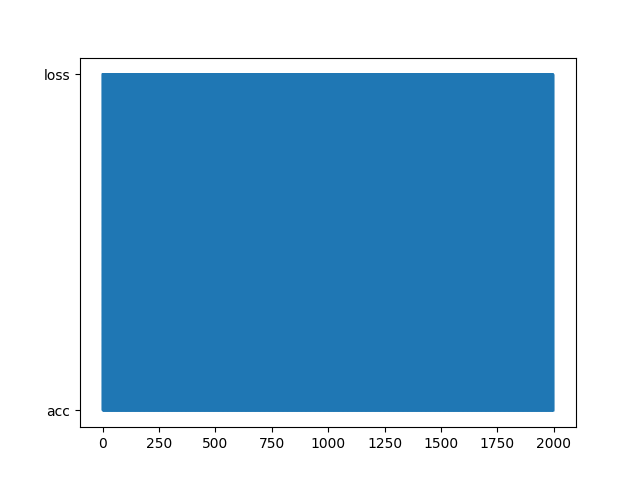
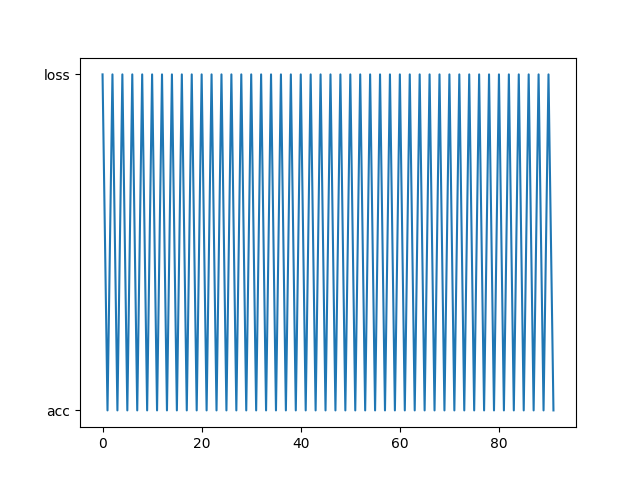
update

diff --git a/src/networks.py b/src/networks.py
@@ -19,30 +19,24 @@ def train_model(train_x, train_y, test_x, test_y):
     else:
         print('no previous model exist, constructing new one ...')
         model = Sequential()
-        model.add(Conv2D(32, (3,3), activation='relu', input_shape=conv_input_shape))
-        model.add(Conv2D(32, (3,3), activation='relu'))
+        model.add(Conv2D(64, (3,3), activation='relu', input_shape=conv_input_shape))
+        model.add(Conv2D(64, (3,3), activation='relu'))
         model.add(MaxPooling2D(pool_size=(2, 2)))
-        model.add(Dropout(0.25))
-        model.add(Conv2D(64, (3, 3), activation='relu'))
-        model.add(Conv2D(64, (3, 3), activation='relu'))
-        model.add(MaxPooling2D(pool_size=(2, 2)))
-        model.add(Dropout(0.25))
+        model.add(Dropout(0.5))
         model.add(Conv2D(128, (3, 3), activation='relu'))
         model.add(Conv2D(128, (3, 3), activation='relu'))
         model.add(MaxPooling2D(pool_size=(2, 2)))
-        model.add(Dropout(0.25))
+        model.add(Dropout(0.5))
         model.add(Flatten())
         model.add(Dense(256, activation='relu'))
         model.add(Dropout(0.5))
-        model.add(Dense(1, activation='sigmoid'))
-        sgd = SGD(lr=0.01, decay=1e-6, momentum=0.9, nesterov=True)
-        model.compile(loss='binary_crossentropy', optimizer=sgd, metrics=['accuracy'])
+        model.add(Dense(2, activation='softmax'))
+        sgd = SGD(lr=0.1, decay=1e-6, momentum=0.9, nesterov=True)
+        model.compile(loss='categorical_crossentropy', optimizer=sgd, metrics=['accuracy'])
     for i in range(iter_cnt):
-        print("running ", i, " out of ", iter_cnt, " iteration ...")
+        print("running ", i+1, " out of ", iter_cnt, " iteration ...")
         sampled_x = train_x
         sampled_y = train_y
-        # print('sampled x shape: ', sampled_x.shape)
-        # print('sampled y shape: ', sampled_y.shape)
         h = model.fit(x=sampled_x, y=sampled_y, batch_size=train_batch_size, epochs=epochs)
         train_scores.extend(h.history)
         if mode == 'quick':
@@ -51,13 +45,9 @@ def train_model(train_x, train_y, test_x, test_y):
         if i % checkpoint == 0:
             score = model.evaluate(test_x, test_y, batch_size=test_batch_size)
             print('current testing score: ', score)
-            test_scores.append(score)
-        if notification:
-            from .notification import send_notification, compose_iteration_msg
-            msg = compose_iteration_msg(i+1, iter_cnt, score)
-            send_notification(msg)
+            test_scores.append(score[0])
+            plot_learning_curve(train_scores, 'train_score.png')
+            plot_learning_curve(test_scores, 'test_score.png')
         model.save(model_dir + '/' + saved_model_filename)
     score = model.evaluate(test_x, test_y, batch_size=test_batch_size)
     print('current testing score: ', score)
-    plot_learning_curve(train_scores, 'train_score.png')
-    plot_learning_curve(test_scores, 'test_score.png')

diff --git a/src/config.py b/src/config.py
@@ -1,7 +1,3 @@
-# notification parameters
-slack_api = 'xoxp-288942247782-288076142754-288698076356-47d94f3ee73731809fc3d2bc0f8e191f'
-notification = False
-
 # utility parameters
 mode = 'overnight'
 # mode = 'quick'
@@ -15,10 +11,12 @@ saved_structure_filename = 'js_model_structure.json'
 meta_dir = 'src/source.json'
 backup_dir = 'src/backup.json'
 plot_dir = 'plots'
-label_encoder = {'meme': [1], 'nonmeme': [0]}
+label_encoder = {'meme': [1, 0], 'nonmeme': [0, 1]}
 width = 100
 height = 100
 resolution = (width, height)
+key_path = 'key.json'
+username = 'tianhaoz@umich.edu'
 
 # neural network parameters
 conv_input_shape = (width, height, 3)
@@ -26,7 +24,7 @@ train_batch_size = 10
 test_batch_size = 10
 epochs = 1
 iter_cnt = 100
-checkpoint = 10
+checkpoint = 5
 sample_size = 50
 
 # grid search parameters

diff --git a/src/notification.py b/src/notification.py
@@ -1,16 +1,6 @@
-from slacker import Slacker
+import firebase_admin
+from firebase_admin import credentials
 from .config import *
 
-slack = Slacker(slack_api)
-
-def send_notification(msg):
-    print('sending message to slack ...')
-    slack.chat.post_message('#general', msg)
-    print('message sent')
-
-def compose_iteration_msg(iter_cnt, total_iter_cnt, test_score):
-    msg1 = 'iteration ' + str(iter_cnt) + ' out of ' + str(total_iter_cnt) + '\n'
-    msg2 = 'testing loss: ' + str(test_score[0]) + '\n'
-    msg3 = 'testing accuracy: ' + str(test_score[1]) + '\n'
-    msg = msg1 + msg2 + msg3
-    return msg
+cred = credentials.Certificate(key_path)
+firebase_admin.initialize_app(cred)
